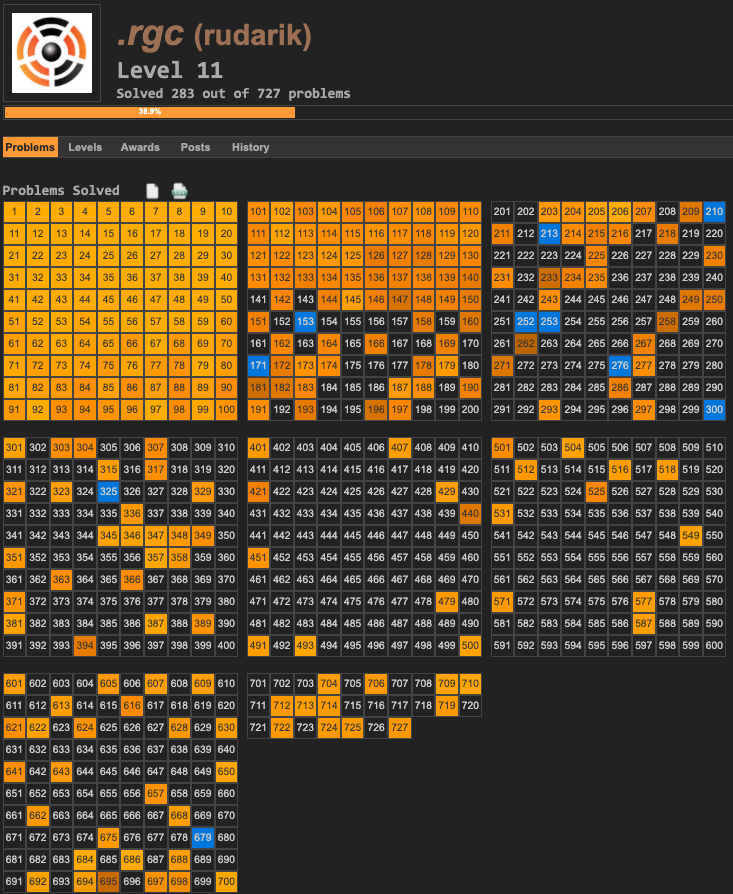
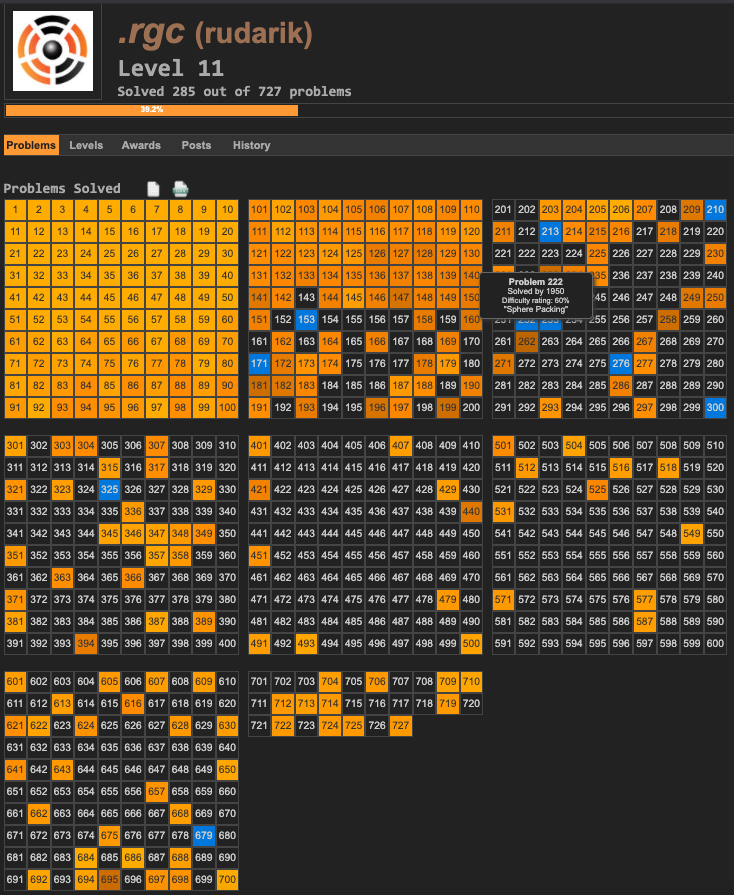
solved 199

Changed region(s): [[0.0, 0.0, 1.0, 1.0]]

diff --git a/README.md b/README.md
@@ -43,7 +43,7 @@ Problem 525: "Rolling ellipse"
 Problem 183: "Maximum product of parts"
 
 * [Descartes Theorem](https://en.wikipedia.org/wiki/Descartes%27_theorem)
-Problem 727: "Triangle of Circular Arcs"
+Problem 199: "Iterative Circle Packing", Problem 727: "Triangle of Circular Arcs"
 
 * [Dijkstra's Algorithm](https://en.wikipedia.org/wiki/Dijkstra%27s_algorithm)
 Problem 83: "Path sum, four ways" 
